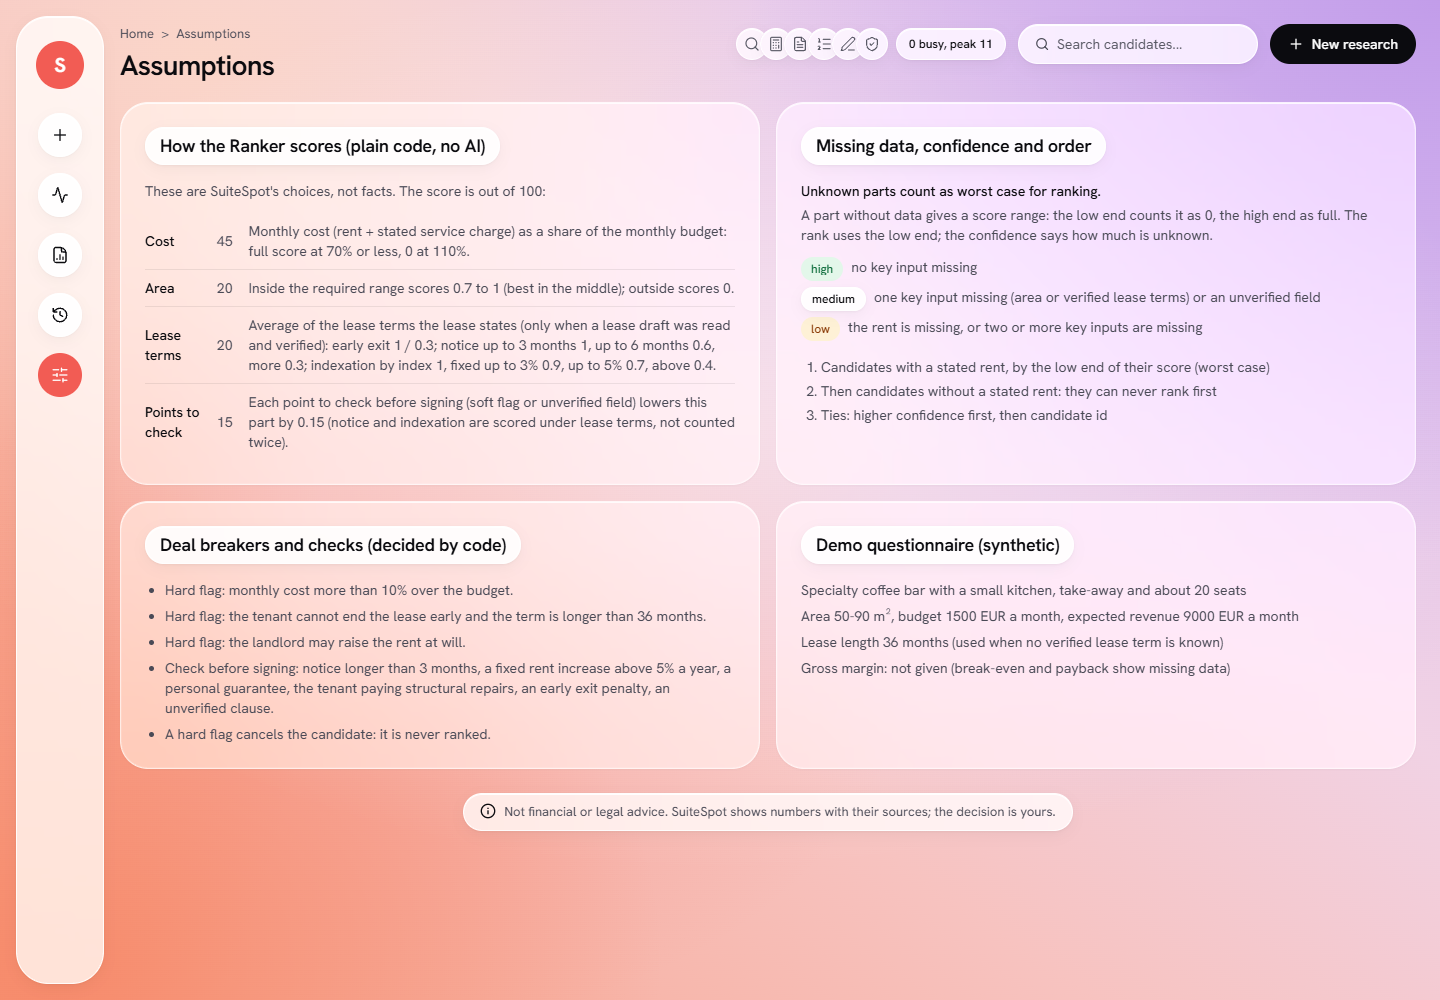
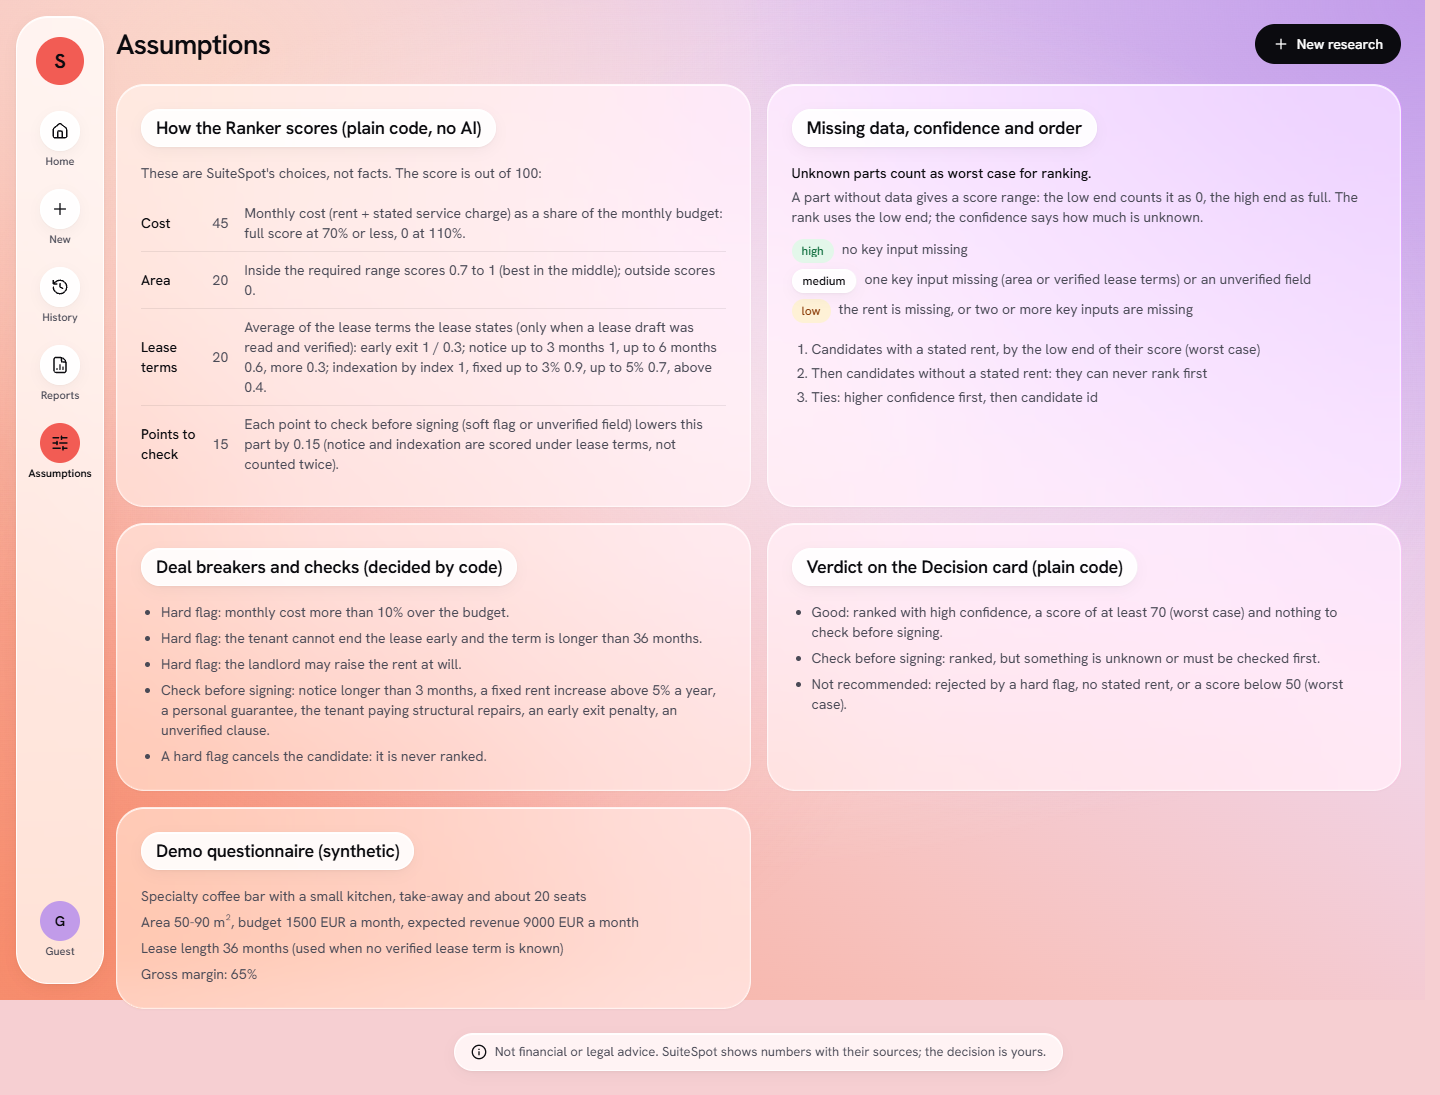
Update screenshots for the new routes and add the PROGRESS entry
npm run screenshots now follows the new flow: the run orbit mid-run (first
hard flag), the results list, a candidate page, the open rejected block,
Timeline, Report, Assumptions and New research. The live variant starts a
live run of the demo through the API (with SUITESPOT_ACCESS_CODE when set).
PROGRESS.md records what changed today and the open points.

diff --git a/scripts/screenshots.ts b/scripts/screenshots.ts
@@ -3,11 +3,13 @@
  *
  * PowerShell:
  *   npm run screenshots
- *     Demo mode (keyless) against the dev servers (npm run dev): Table and Timeline mid-run and at the end, Cards,
- *     Reports, Assumptions, New research. Writes design/screenshots/*.png.
+ *     Demo mode (keyless) against the dev servers (npm run dev): the run orbit mid-run and at the end, the results
+ *     list, a candidate page, the rejected block, Timeline, Report, Assumptions and New research.
+ *     Writes design/screenshots/*.png.
  *   npm run screenshots -- --live --url http://localhost:3001
  *     One LIVE run of the whole demo (claude-haiku-4-5, costs money) against a server started with
- *     SUITESPOT_MODE=live (see PROGRESS.md "How to run"). Writes design/screenshots/live-*.png and report-live.md.
+ *     SUITESPOT_MODE=live (see PROGRESS.md "How to run"). If the server sets SUITESPOT_ACCESS_CODE, put the same value
+ *     in this shell's environment. Writes design/screenshots/live-run-*.png and report-live.md.
  */
 import { mkdirSync, writeFileSync } from "node:fs"
 import { chromium } from "playwright-core"
@@ -21,42 +23,56 @@ mkdirSync(out, { recursive: true })
 const browser = await chromium.launch({ channel: "msedge" }).catch(() => chromium.launch({ channel: "chrome" }))
 const page = await browser.newPage({ viewport: { width: 1440, height: 1000 }, deviceScaleFactor: 1 })
 const save = async (name: string) => {
-  await page.waitForTimeout(250)
+  await page.waitForTimeout(300)
   await page.screenshot({ path: `${out}/${name}.png`, fullPage: true })
   console.log(`${out}/${name}.png`)
 }
-const tab = async (name: "Table" | "Timeline" | "Cards") => page.getByRole("tab", { name }).click()
+const prefix = live ? "live-run-" : ""
 
+// Start the run: the demo through the app's own autorun, a live run of the demo through the API.
 let researchId = ""
-page.on("response", async (res) => {
-  if (res.url().endsWith("/api/research") && res.request().method() === "POST") researchId = ((await res.json()) as { id?: string }).id ?? ""
-})
-await page.goto(`${base}/?autorun=${live ? "live" : "demo"}`)
-await page.getByRole("tab", { name: "Table" }).waitFor()
-
-if (!live) {
-  // Mid-run: the lease has rejected demo-07 while other loops still run (the key moment).
-  await tab("Timeline")
-  await page.getByText("Hard flag: demo-07 rejected").first().waitFor({ timeout: 30_000 })
-  await save("live-timeline-mid")
-  await tab("Table")
-  await save("live-table-mid")
+if (live) {
+  await page.goto(base)
+  researchId = await page.evaluate(async (accessCode) => {
+    const response = await fetch("/api/research", {
+      method: "POST",
+      headers: { "Content-Type": "application/json", ...(accessCode ? { "X-Access-Code": accessCode } : {}) },
+      body: JSON.stringify({ mode: "live", source: "demo" }),
+    })
+    if (!response.ok) throw new Error(`Live run refused: ${response.status} ${await response.text()}`)
+    return ((await response.json()) as { id: string }).id
+  }, process.env.SUITESPOT_ACCESS_CODE ?? "")
+  await page.goto(`${base}/research/${researchId}/run`)
+} else {
+  await page.goto(`${base}/?autorun=demo`)
+  await page.waitForURL(/\/research\/[^/]+\/run$/)
+  researchId = page.url().split("/research/")[1]!.split("/")[0]!
 }
 
-// End: the metrics strip appears with research.done.
-await page.getByText(/done in \d/).waitFor({ timeout: live ? 300_000 : 60_000 })
-const prefix = live ? "live-run-" : "live-"
-await tab("Table")
-await save(`${prefix}table-end`)
-await tab("Timeline")
-await save(`${prefix}timeline-end`)
-if (!live) {
-  await tab("Cards")
-  await save("live-cards-end")
-}
-await page.getByRole("button", { name: "Reports" }).click()
+// Mid-run: the first hard flag has taken a candidate out of the orbit while other loops still run.
+await page.getByText(/^Hard flag: /).first().waitFor({ timeout: live ? 300_000 : 30_000 })
+await save(`${prefix}run-mid`)
+
+// The orbit settles and the page moves on to the results by itself.
+await page.waitForURL(new RegExp(`/research/${researchId}$`), { timeout: live ? 300_000 : 60_000 })
+await page.getByText(/^(Best option|No space is recommended)/).waitFor()
+await save(`${prefix}results-list`)
+
+await page.locator("ol a[href*='/candidate/']").first().click()
+await page.getByRole("heading", { name: "Costs" }).waitFor()
+await save(`${prefix}candidate`)
+
+await page.goto(`${base}/research/${researchId}`)
+await page.getByRole("button", { name: /Rejected by a hard flag/ }).click()
+await save(`${prefix}results-rejected-open`)
+
+await page.goto(`${base}/research/${researchId}?tab=timeline`)
+await page.getByText("Under the hood").waitFor()
+await save(`${prefix}timeline`)
+
+await page.goto(`${base}/research/${researchId}?tab=report`)
 await page.getByText(/Audited: \d+ claims checked/).waitFor({ timeout: 30_000 })
-await save(live ? "live-run-report" : "reports")
+await save(`${prefix}report`)
 
 if (live) {
   // Save the audited report and the run metrics (from the server, computed from runtime events).
@@ -87,11 +103,11 @@ if (live) {
   writeFileSync(`${out}/report-live.md`, lines.join("\n"))
   console.log(`${out}/report-live.md`)
 } else {
-  await page.getByRole("button", { name: "Assumptions" }).click()
+  await page.goto(`${base}/assumptions`)
   await page.getByText("How the Ranker scores").waitFor()
   await save("assumptions")
-  await page.goto(base)
-  await page.getByRole("button", { name: "Run demo" }).waitFor()
+  await page.goto(`${base}/research/new?mode=find`)
+  await page.getByText("Demo profile").waitFor()
   await save("new-research")
 }
 await browser.close()

diff --git a/PROGRESS.md b/PROGRESS.md
@@ -3,6 +3,39 @@
 Read this at the start of every session. Update it before every push. Newest entries at the top.
 No long dashes in this file; use a plain hyphen.
 
+## 26 Nov 2026, late evening (Andrej): app flow, run orbit, results redesign
+What changed (commits 1c11f9e to the last one of the day; 122 tests pass, typecheck clean, keyless demo unchanged):
+- **App flow:** own router (no dependency): `/`, `/research/new`, `/research/:id/run`, `/research/:id`,
+  `/research/:id/candidate/:candidateId`, `/history`, `/reports`, `/assumptions`, `/settings`, 404. Always "Guest"
+  (`web/src/app/identity.ts`), no login. Settings in localStorage; guest history and results in sessionStorage (gone
+  when the tab closes) behind the `HistoryStore` interface, so a Supabase store can be added later. On a phone the
+  sidebar is a bottom bar.
+- **Questionnaire:** Evaluate a space (mode A, 1 to 8 pasted listings, optional lease draft and optional Listing URL)
+  and Find spaces (mode B, the synthetic demo). The demo profile is shown filled in and locked ("Demo profile"); mode A
+  on a demo-only server is shown disabled with "Available in live mode".
+- **Server:** `POST /api/research/:id/cancel` (run-level breakpoint, `src/application/cancellation/run-cancellation.ts`);
+  live mode needs `X-Access-Code` when `SUITESPOT_ACCESS_CODE` is set (one name everywhere: code, `.env.example`,
+  CLAUDE.md, here); live runs take the questionnaire profile; `GET /api/demo-questionnaire`.
+- **Verdict by code:** `src/domain/verdict.ts` (Good at 70+ worst case with high confidence and nothing to check; Not
+  recommended below 50, no rent or a hard flag; otherwise Check before signing). Rules on the Assumptions screen.
+- **Run view:** orbit with fixed agent slots, candidates on an inner ring with short names ("Liman 2 · 72 m2"),
+  hard flag = red pulse and the chip leaves the orbit into "Left the orbit", breathing centre, counters, Cancel.
+  Everything from SSE events (`web/src/run/run-view-model.ts`). Reduced motion: a static list.
+- **Results:** List / Report / Timeline ("Under the hood" metrics). One list by score with a one-sentence answer, a
+  collapsed rejected block, and a candidate page (costs with plain-language sources, strengths and risks, lease terms
+  or questions for the landlord, unknowns in points, all sources). Model: `web/src/results/results-model.ts`.
+- **Fixes:** exit cost without a lease is "Needs lease terms" plus the known unrecovered fit-out (was a fake
+  10,000 EUR total); the demo profile now has a gross margin (65 percent, the owner's estimate), so break-even and
+  payback have numbers; the Auditor still checks every number (13 checked, 0 corrected).
+- **Listing URL:** only a URL the user typed (http(s) only, validated in `src/domain/listing-text.ts`). Note: the Scout
+  does NOT open listing pages today (no fetch or web_search exists; mode B live is off by the terms-of-use decision).
+  When a site gives permission, the Scout must store the page it really opened in the same `url` field, and a
+  recorded fixture must keep it.
+- Screenshots: `npm run screenshots` writes `design/screenshots/run-mid.png`, `results-list.png`, `candidate.png`,
+  `results-rejected-open.png`, `timeline.png`, `report.png`, `assumptions.png`, `new-research.png` (older
+  `live-*.png` files are from the previous UI).
+Next: README, deploy (Railway), Mozaik Cloud pairing, then a fresh-clone test.
+
 ## HANDOFF: Aleksa -> Andrej (26 Nov 2026, evening)
 Aleksa stops for today; Andrej continues with his own agent. Read this section first, then CLAUDE.md, then the plan.
 
